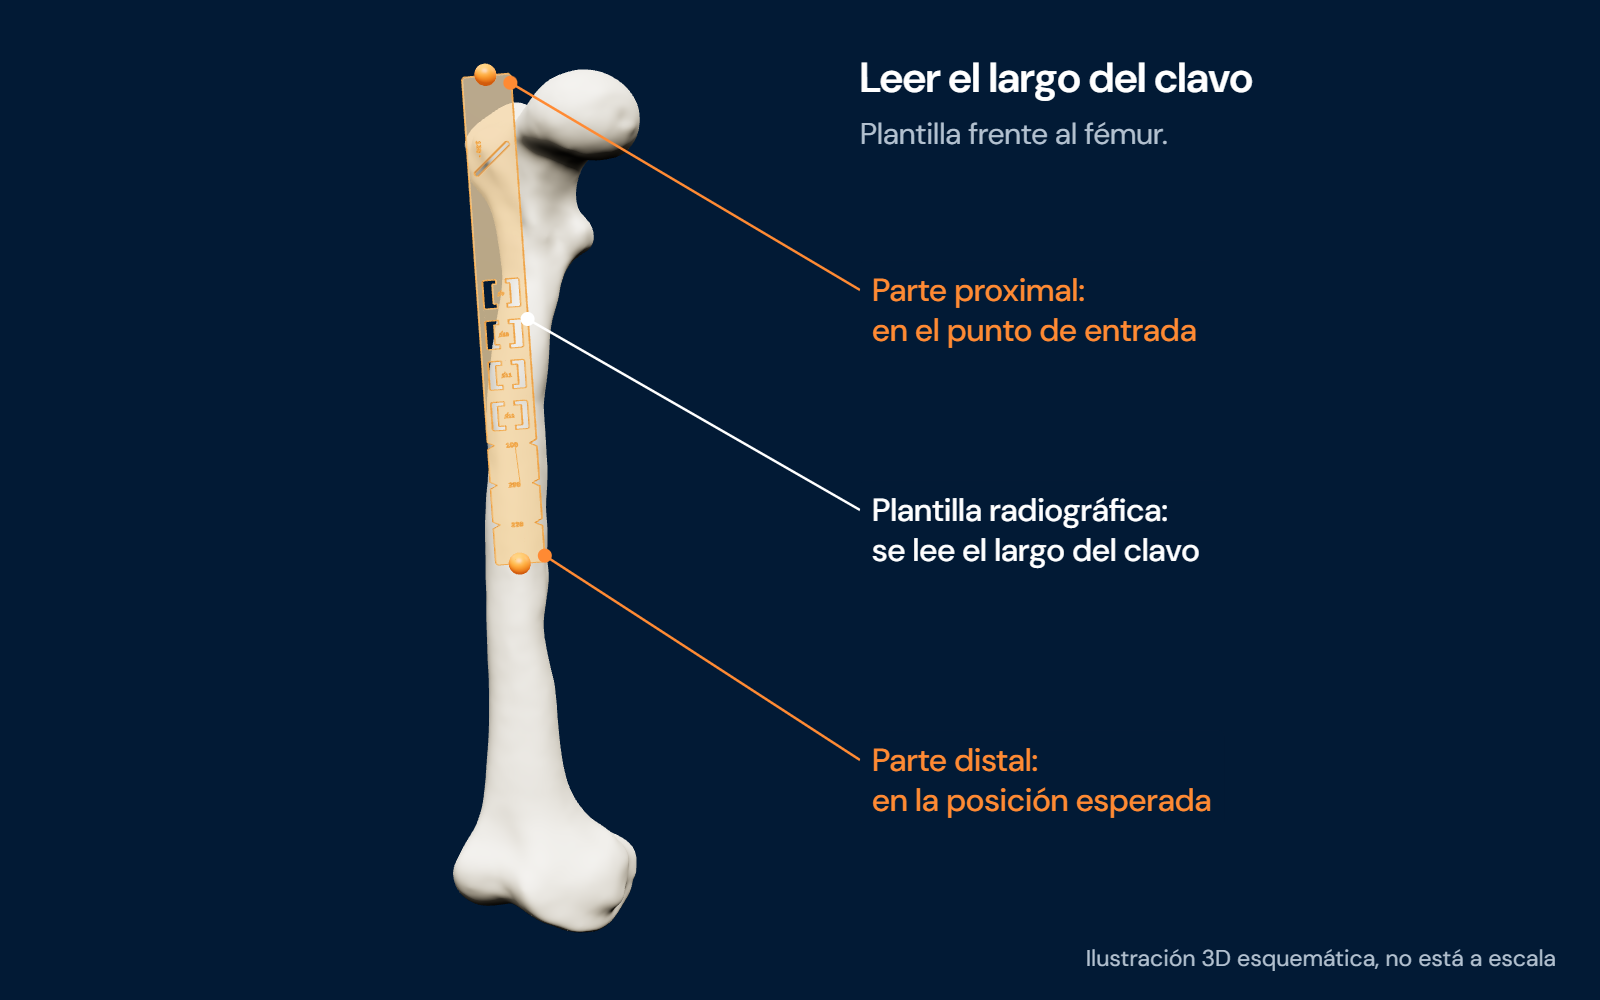
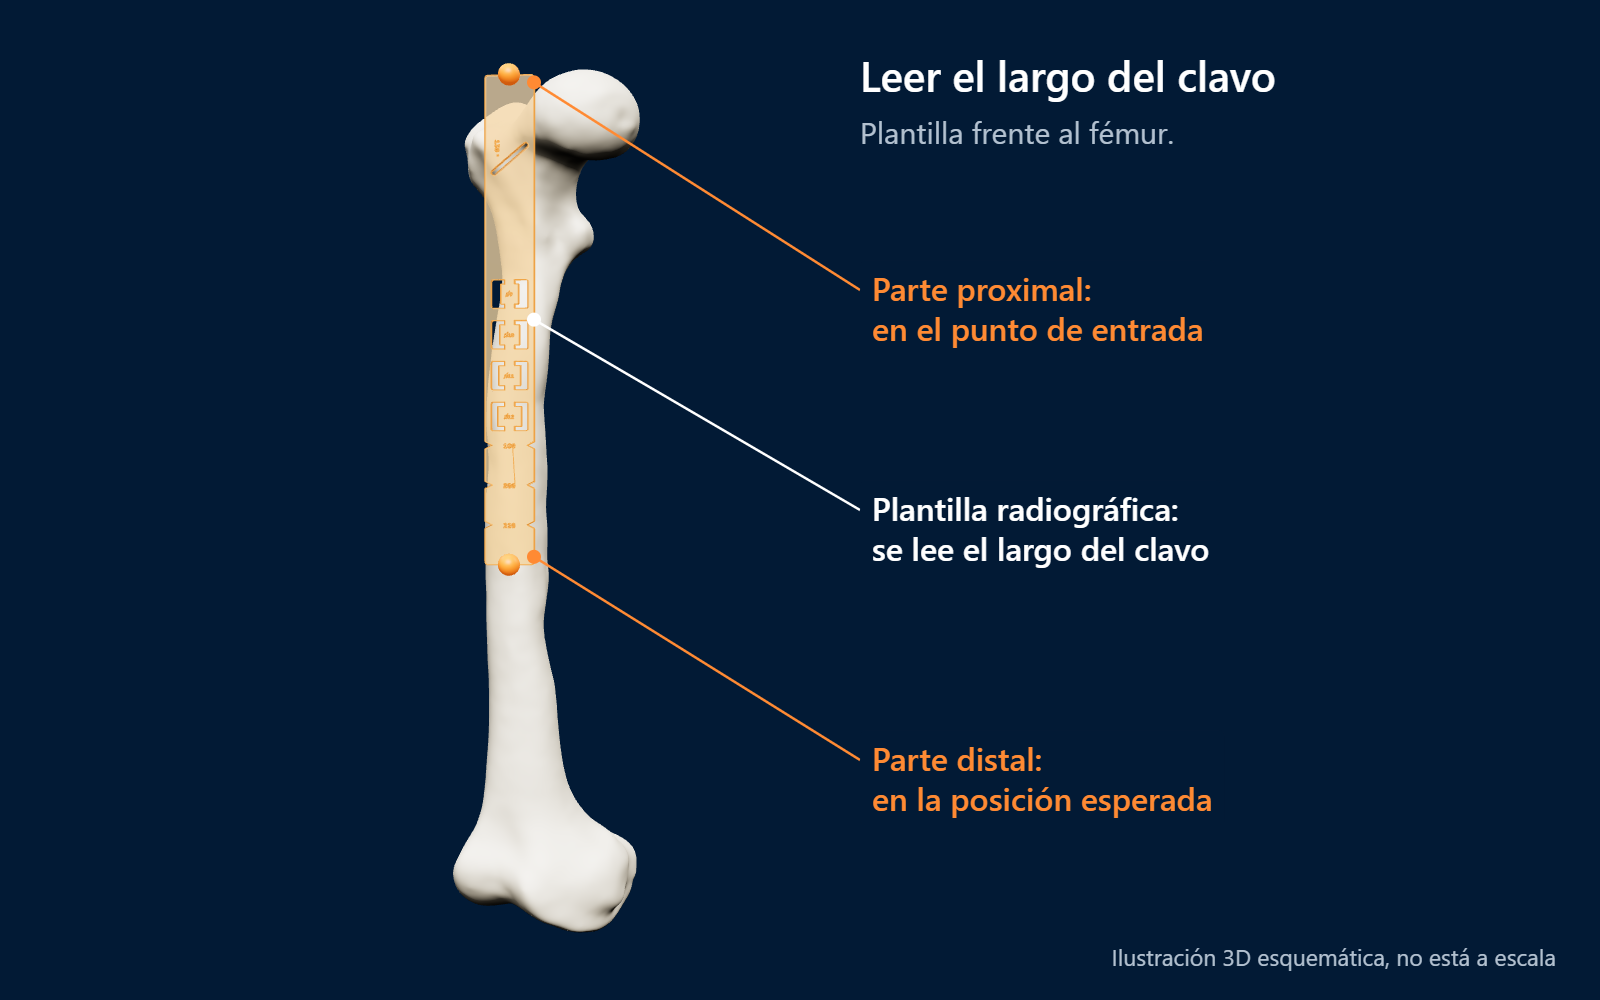
Paso 2.2: plantilla radiográfica vertical desde el trocánter mayor

diff --git a/web/ilustraciones3d/escenas.js b/web/ilustraciones3d/escenas.js
@@ -755,26 +755,22 @@ const ESCENAS = {
     scene.add(femur(M.bone));
     // Plantilla frente al fémur: su parte proximal en el punto de entrada y la distal en la posición esperada.
     await loadTemplate();
-    // Va del punto de entrada hacia el centro de la diáfisis (el eje del fémur está un poco inclinado).
-    const tipX = 0.0135;
-    const tilt = Math.atan2(tipX - ENTRY.x, TEMPLATE.length);
-    const tipY = ENTRY.y - TEMPLATE.length * Math.cos(tilt);
-    const holderT = new THREE.Group();
-    holderT.position.set(ENTRY.x, ENTRY.y, 0.055);
-    holderT.rotation.z = tilt;
+    // Totalmente vertical, desde la punta del trocánter mayor hacia abajo. Se corre un poco hacia la
+    // diáfisis para que cubra a la vez el trocánter (arriba) y el centro del hueso (abajo).
+    const tipX = 0.008;
+    const tipY = ENTRY.y - TEMPLATE.length;
     const plantilla = radiographicTemplate({ opacity: 0.5 });
-    plantilla.position.y = -TEMPLATE.length;
-    holderT.add(plantilla);
-    scene.add(holderT);
+    plantilla.position.set(tipX, tipY, 0.055);
+    scene.add(plantilla);
     const edge = TEMPLATE.halfWidth;
-    scene.add(ball(0.0055, M.orange, [ENTRY.x, ENTRY.y, 0.058]));
+    scene.add(ball(0.0055, M.orange, [tipX, ENTRY.y, 0.058]));
     scene.add(ball(0.0055, M.orange, [tipX, tipY, 0.058]));
     const camera = perspective([0.23, 0.0, 1.05], [0.15, 0, 0], { fov: 28 });
     render(scene, camera);
     const p = projector(camera);
     title('Leer el largo del clavo', 'Plantilla frente al fémur.', 860);
-    callout(p([ENTRY.x + edge, ENTRY.y - 0.004, 0.057]), 860, 290, ['Parte proximal:', 'en el punto de entrada'], { color: C.orange, size: 32 });
-    callout(p([(ENTRY.x + tipX) / 2 + edge, (ENTRY.y + tipY) / 2, 0.057]), 860, 510, ['Plantilla radiográfica:', 'se lee el largo del clavo'], { size: 32 });
+    callout(p([tipX + edge, ENTRY.y - 0.004, 0.057]), 860, 290, ['Parte proximal:', 'en el punto de entrada'], { color: C.orange, size: 32 });
+    callout(p([tipX + edge, (ENTRY.y + tipY) / 2, 0.057]), 860, 510, ['Plantilla radiográfica:', 'se lee el largo del clavo'], { size: 32 });
     callout(p([tipX + edge, tipY + 0.004, 0.057]), 860, 760, ['Parte distal:', 'en la posición esperada'], { color: C.orange, size: 32 });
     note();
   },
